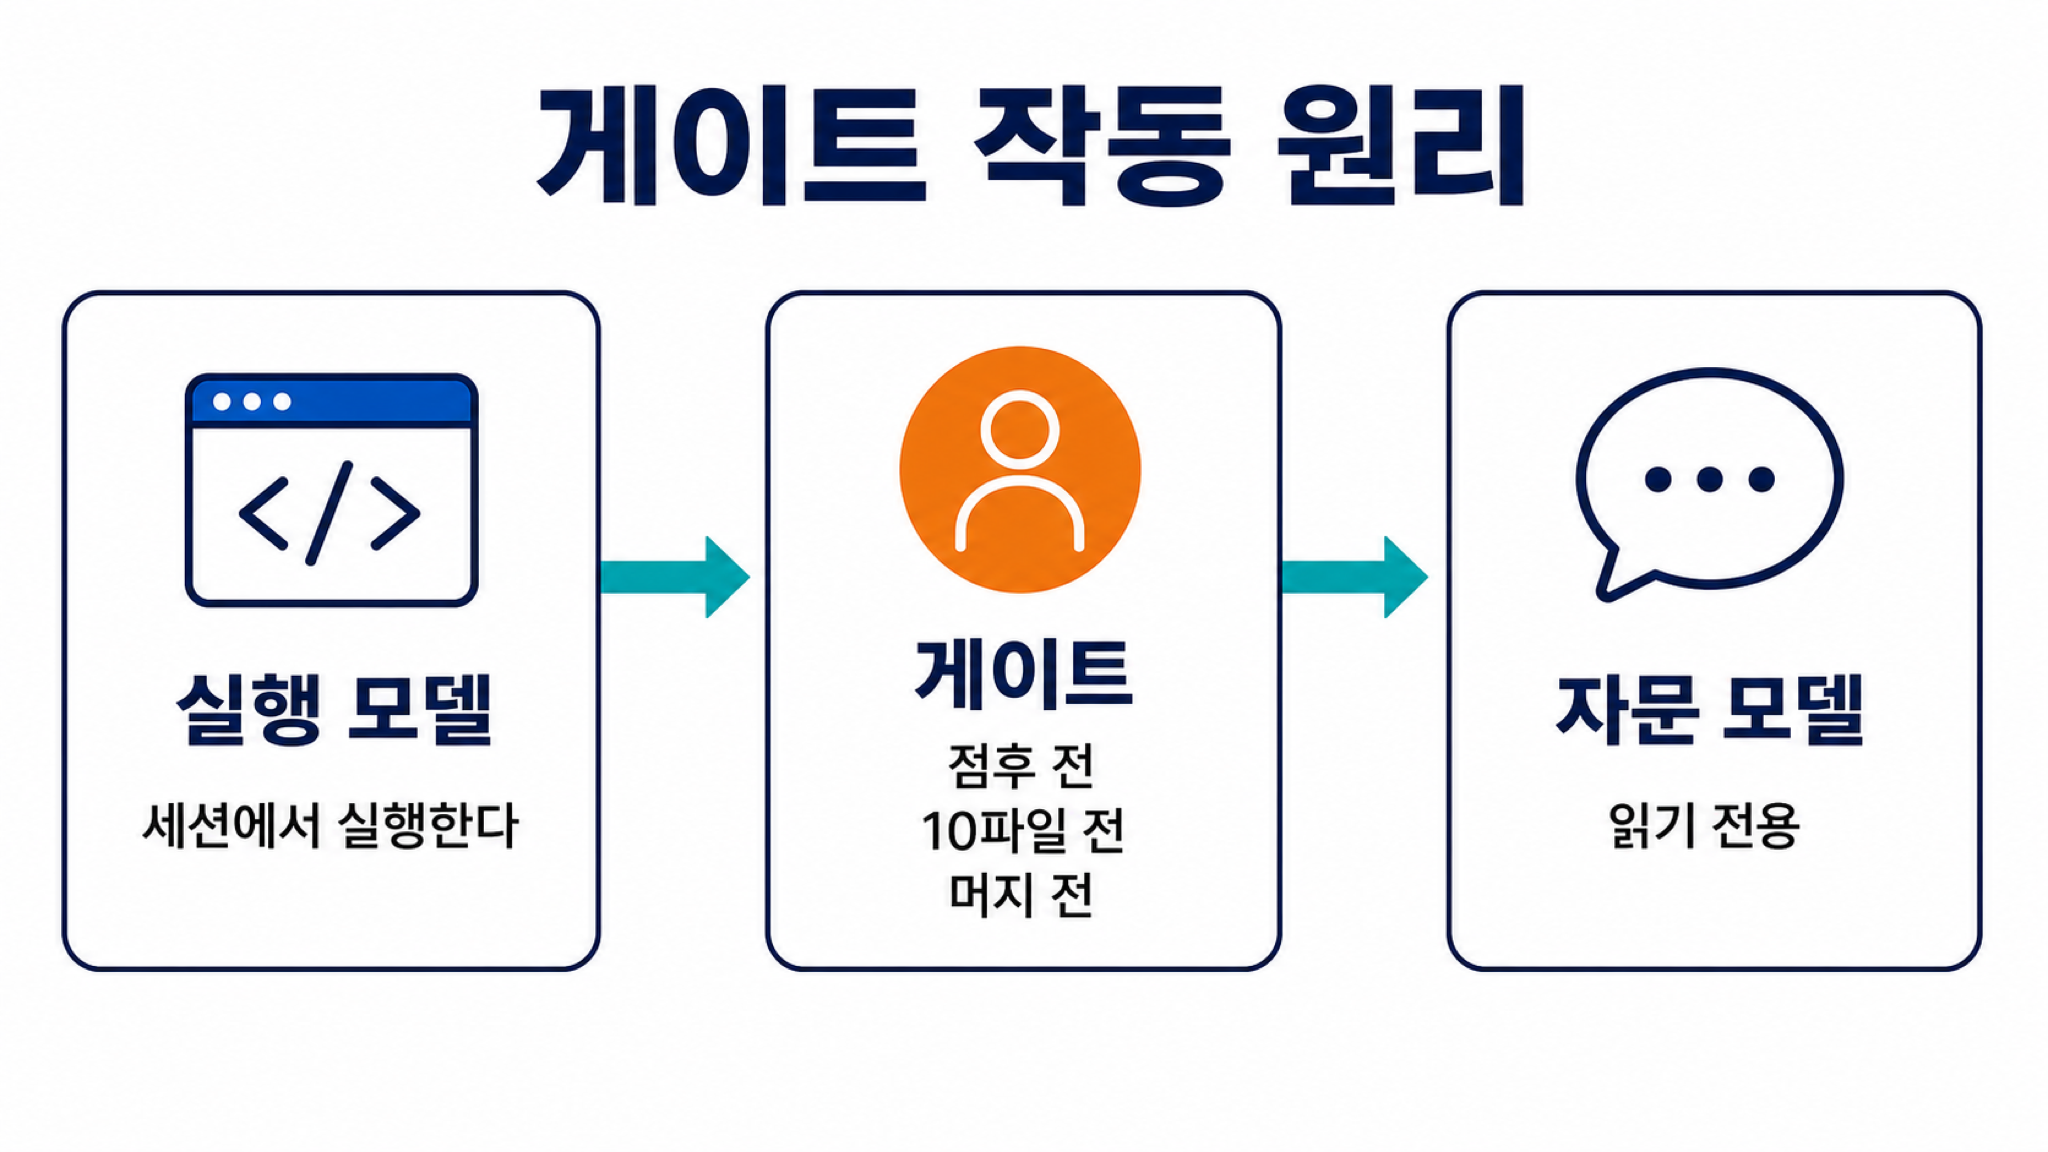
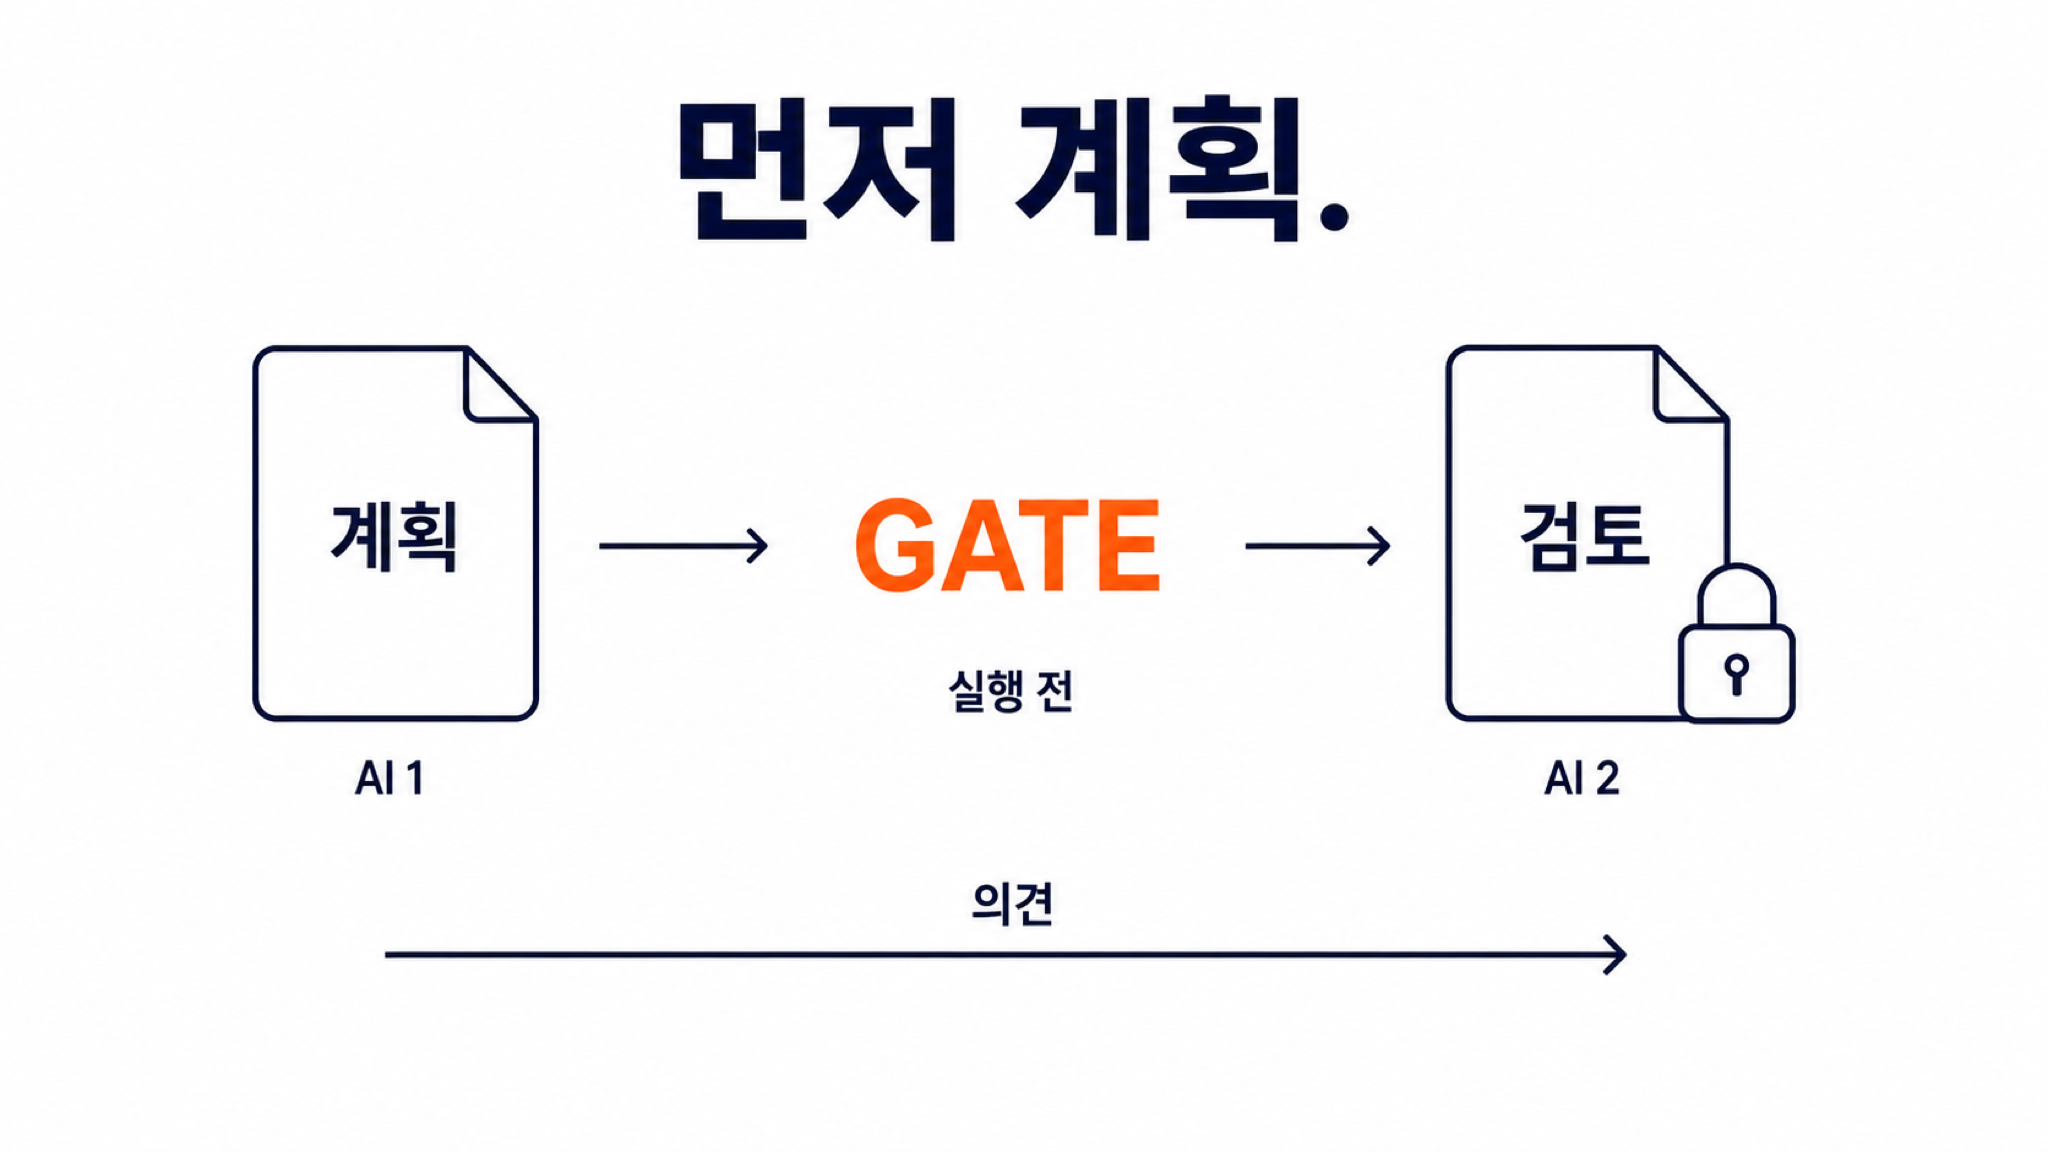
README 그림을 계획 / GATE / 검수 시안으로 교체한다.

Changed region(s): [[0.0312, 0.25, 0.9688, 0.8438], [0.25, 0.0625, 0.75, 0.2188], [0.5938, 0.4688, 0.7188, 0.5312]]

diff --git a/README.md b/README.md
@@ -14,10 +14,10 @@ EVAL_LIVE=1 python3 eval/run.py
 영어: `npx skills add dalsoop/orchestrator-consultant-gate -g -y`
 
 <p align="center">
-  <img src="assets/how-the-gate-works-ko.png" alt="실행 모델, 게이트, 자문 모델" width="920">
+  <img src="assets/how-the-gate-works-ko.png" alt="AI 1이 계획을 쓰고, 실행 전 GATE, AI 2가 읽기 전용 검수" width="920">
 </p>
 
-**실행 모델**(이 세션) → **게이트**(점수 전 / 10파일 전 / 머지 전) → **자문 모델**(읽기 전용).
+AI 1이 **계획**을 씀. **GATE**는 실행 전. AI 2가 **검수**(읽기 전용). 의견이 돌아옴.
 
 자문 자식은 실행 모델과 다른 모델이다. 기본 계열은 `fable` → `claude-fable-5`. 이번 턴에 바꾸려면 `--name grok`, `--name gpt`, `--name gemini`.
 
